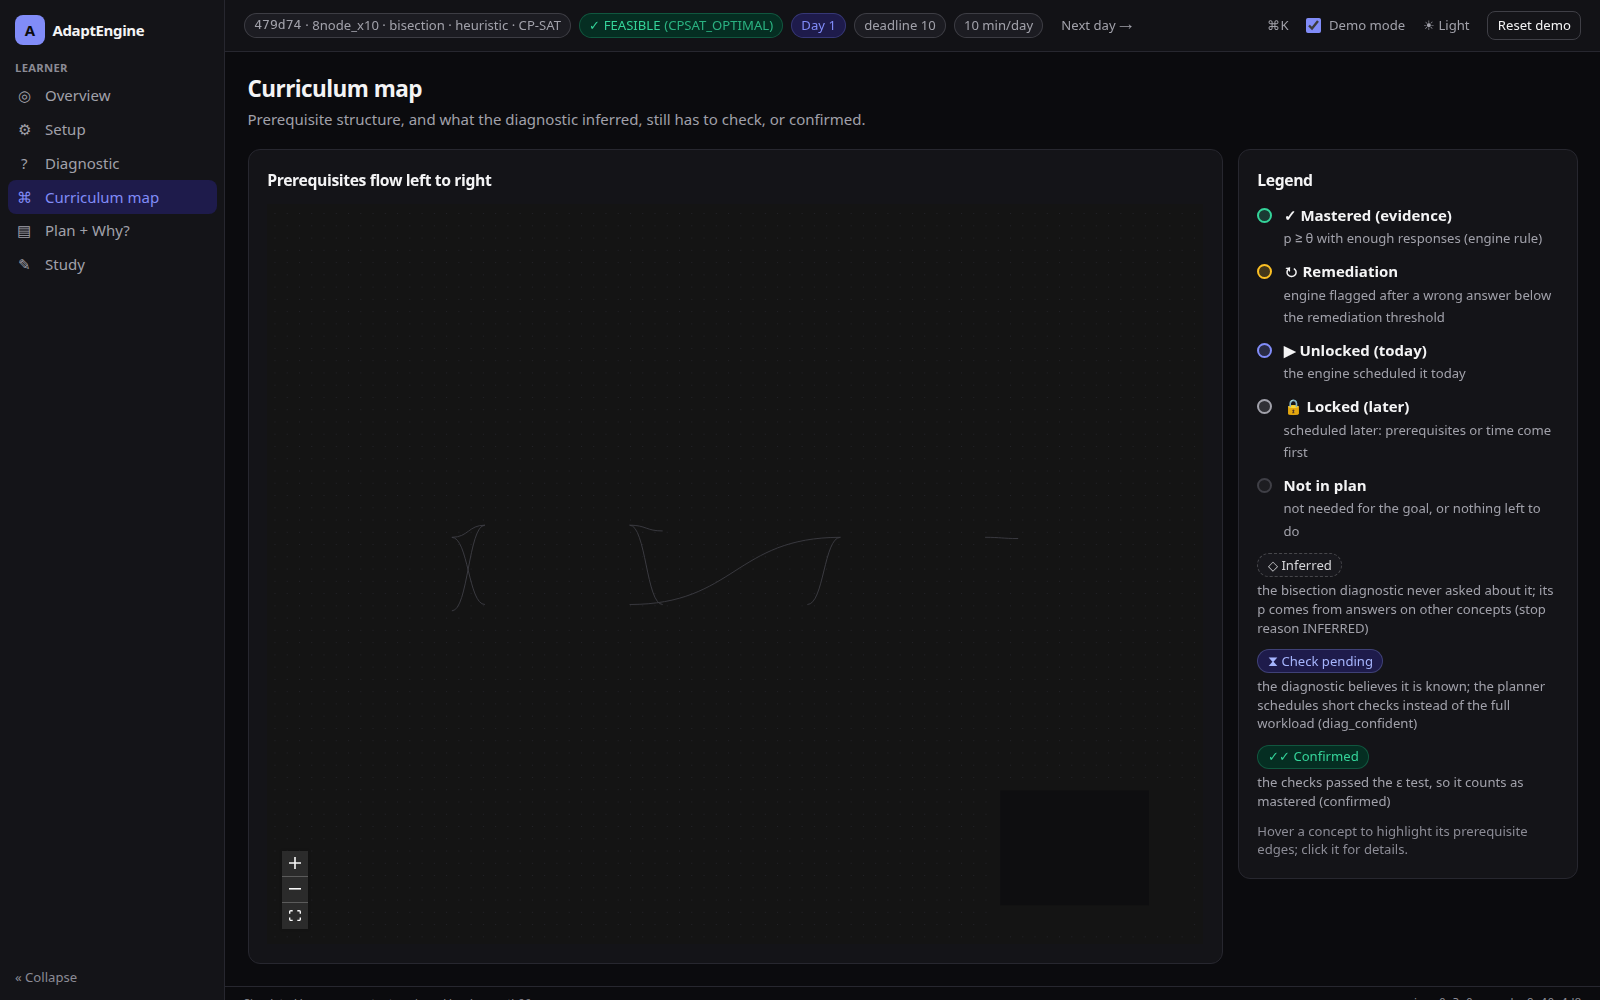
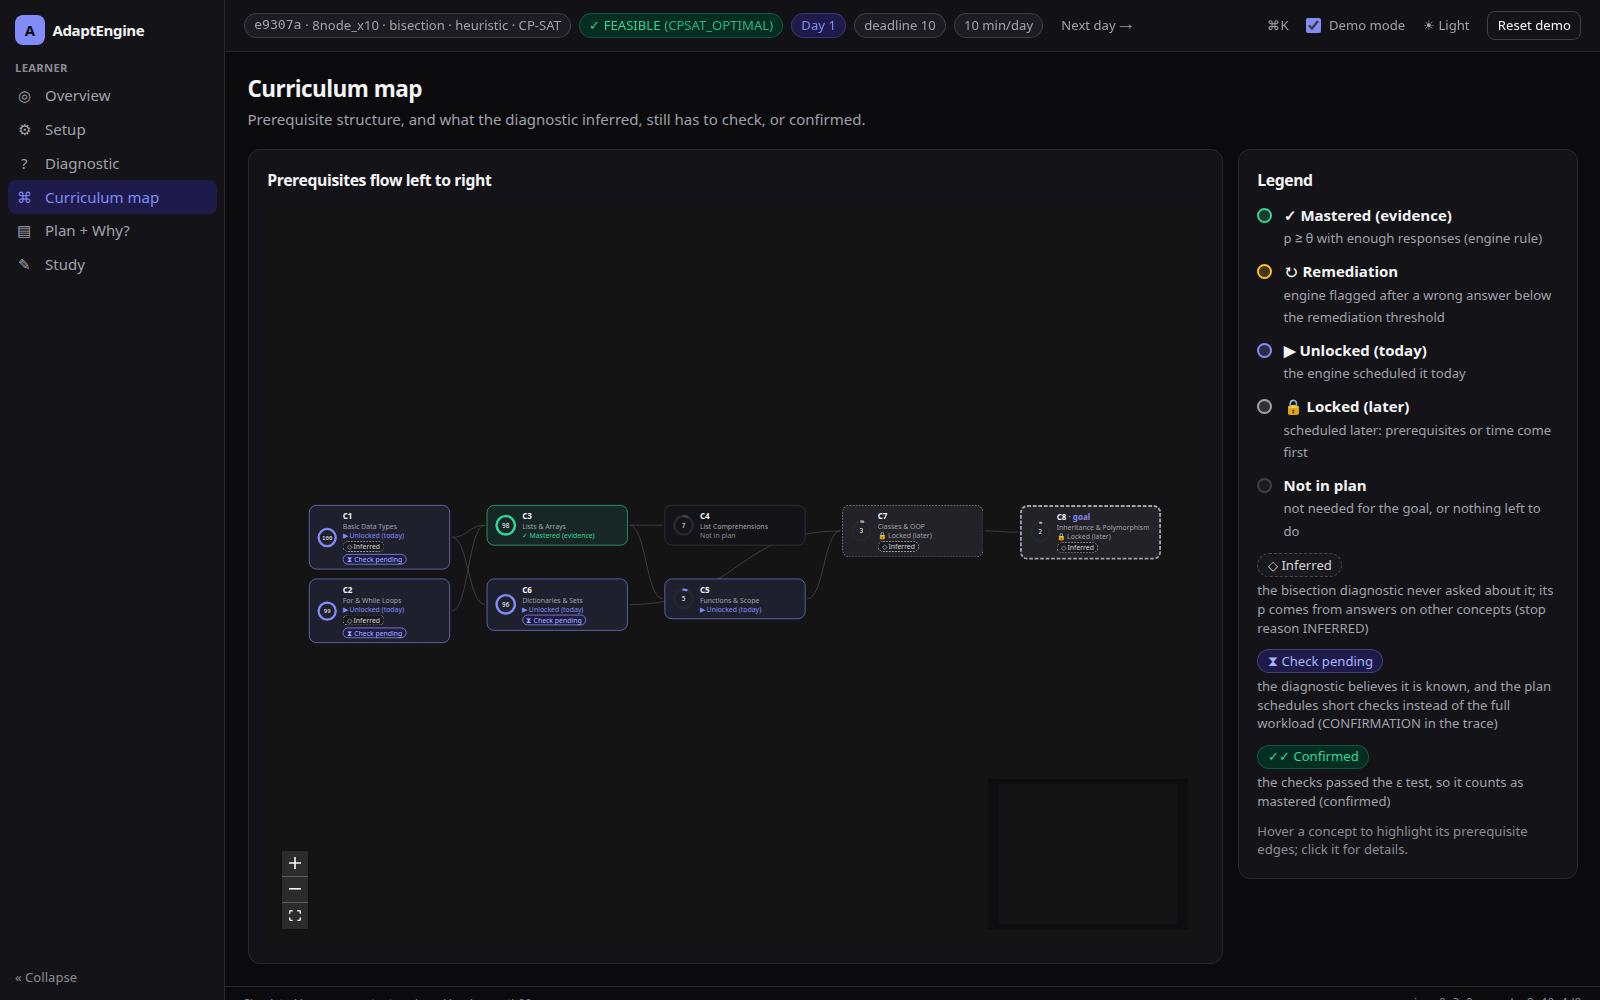
feat: show check pending badge only when plan schedules checks

diff --git a/frontend/web/e2e/screens.spec.ts b/frontend/web/e2e/screens.spec.ts
@@ -51,6 +51,11 @@ for (const theme of ["light", "dark"] as const) {
       await expect(page.getByTestId(`tab-${t}`)).toHaveAttribute("aria-current", "page");
       await expect(page.getByRole("heading", { level: 1 })).toBeVisible();
       await expect(page.getByText(/screen failed to render/)).toHaveCount(0);
+      if (t === "map") {
+        // React Flow measures and fits the nodes after mounting: wait until their text is painted
+        await expect(page.getByTestId("node-C8")).toContainText("C8");
+        await page.waitForTimeout(500);
+      }
       await page.waitForLoadState("networkidle");
       await page.screenshot({ path: shotPath(t, theme) });
     }
@@ -159,4 +164,27 @@ test("setup locks the curriculum and switches once the session has a plan", asyn
   await page.getByTestId("keep-session").click(); // back to the current session's switches, locked
   await expect(bisection).toBeDisabled();
   await expect(page.getByTestId("make-plan")).toHaveText("Re-plan");
+});
+
+test("check pending only where the plan schedules checks", async ({ page, request }) => {
+  // a beginner (every diagnostic answer wrong): the diagnostic flags C1 (diag_confident), but the
+  // planner gives it the full workload, so the map must not say "check pending"
+  const body = { curriculum: "8node_x10", goal: "C8", deadline_day: 21, budget: 15, diagnostic_method: "bisection" };
+  const s = await (await request.post("/api/sessions", { data: body })).json();
+  let view = s;
+  while (!view.diagnostic.done)
+    view = await (
+      await request.post(`/api/sessions/${s.session_id}/diagnostic/answer`, {
+        data: { activity_id: view.diagnostic.next_item.activity_id, correct: false },
+      })
+    ).json();
+  view = await (await request.post(`/api/sessions/${s.session_id}/plan`, { data: {} })).json();
+  const flagged = view.concepts.filter((c: { diag_confident: boolean }) => c.diag_confident).map((c: { concept_id: string }) => c.concept_id);
+  expect(flagged.length).toBeGreaterThan(0);
+  expect(view.plan.trace.filter((r: { decision: string }) => r.decision === "CONFIRMATION")).toHaveLength(0);
+  await page.addInitScript((id) => localStorage.setItem("ae.sid", id), s.session_id);
+  await page.goto("/");
+  await page.getByTestId("tab-map").click();
+  await expect(page.getByTestId(`node-${flagged[0]}`)).toBeVisible();
+  await expect(page.locator("[data-testid^=badge-check-]")).toHaveCount(0);
 });

diff --git a/frontend/web/src/pages/Study.tsx b/frontend/web/src/pages/Study.tsx
@@ -1,7 +1,7 @@
 import { useCallback, useState } from "react";
 import { contentOf } from "../api/client";
 import { calendarDay, lastDay, useDemoPreset, useDigitKeys, type Ctx } from "../ctx";
-import { Button, C, Card, ErrorBox, Markdown, PBar, StateBadge, checkRecords, conceptName, inline } from "../components/ui";
+import { Button, C, Card, ErrorBox, Markdown, PBar, StateBadge, checkRecords, checksPlanned, conceptName, inline } from "../components/ui";
 import NoSession from "./NoSession";
 
 export default function Study({ session, cur, demo, sendEvent, lastEvent, go, nextDay }: Ctx) {
@@ -132,7 +132,7 @@ export default function Study({ session, cur, demo, sendEvent, lastEvent, go, ne
               {conceptName(cur, up.concept_id)}: p {up.p_before.toFixed(2)} → {up.p_after.toFixed(2)}
               <PBar p={up.p_after} theta={cur?.theta} />
             </div>
-            {after && (after.diag_confident || after.confirmed) && (
+            {after && (after.confirmed || (after.diag_confident && checksPlanned(session.plan, after.concept_id))) && (
               <p className="flex items-center gap-2" data-testid="study-flags">
                 {after.confirmed ? <StateBadge state="confirmed" /> : <StateBadge state="check" />}
                 {after.confirmed ? "The checks confirmed the diagnostic's belief." : "More checks are planned."}

diff --git a/frontend/web/src/components/ui.tsx b/frontend/web/src/components/ui.tsx
@@ -353,13 +353,19 @@ export function checkRecords(plan?: Plan | null): Map<string, TraceRecord> {
   return out;
 }
 
-// F1 badges, read from engine fields only (D45): stop_reason INFERRED, diag_confident, confirmed.
+/** True when the engine's plan schedules confirmation checks for the concept (a CONFIRMATION record). */
+export const checksPlanned = (plan: Plan | null | undefined, conceptId: string) =>
+  !!plan?.trace.some((r) => r.decision === "CONFIRMATION" && r.concept_id === conceptId);
+
+// F1 badges, read from engine output only (D45): stop_reason INFERRED; "check pending" = the plan
+// schedules checks for it (diag_confident alone only means checks could confirm it; the planner
+// may still choose the full workload when checks are not cheaper); confirmed.
 export function f1Badges(s: Session, conceptId: string): (keyof typeof STATE)[] {
   const c = s.concepts.find((x) => x.concept_id === conceptId);
   const r = s.diagnostic.concept_results.find((x) => x.concept_id === conceptId);
   const out: (keyof typeof STATE)[] = [];
   if (r?.stop_reason === "INFERRED") out.push("inferred");
-  if (c?.diag_confident && !c.confirmed) out.push("check");
+  if (c?.diag_confident && !c.confirmed && checksPlanned(s.plan, conceptId)) out.push("check");
   if (c?.confirmed) out.push("confirmed");
   return out;
 }

diff --git a/frontend/web/src/pages/CurriculumMap.tsx b/frontend/web/src/pages/CurriculumMap.tsx
@@ -15,7 +15,7 @@ const LEGEND: [string, string, string][] = [
 // F1 badges (bisection sessions): what each one means, from the engine's fields
 const BADGE_WHY: Record<"inferred" | "check" | "confirmed", string> = {
   inferred: "the bisection diagnostic never asked about it; its p comes from answers on other concepts (stop reason INFERRED)",
-  check: "the diagnostic believes it is known; the planner schedules short checks instead of the full workload (diag_confident)",
+  check: "the diagnostic believes it is known, and the plan schedules short checks instead of the full workload (CONFIRMATION in the trace)",
   confirmed: "the checks passed the ε test, so it counts as mastered (confirmed)",
 };
 

diff --git a/docs/FRONTEND_NOTES.md b/docs/FRONTEND_NOTES.md
@@ -253,3 +253,23 @@ Plan + Why? and Study. Replans come from Study (closed loop), "Next day →" and
 from about 247 kB.
 
 **Tests:** Playwright 10 passed.
+
+## "Check pending" badge follows the plan (2026-11-21)
+
+**Before.** The badge showed whenever `diag_confident && !confirmed`. That flag only means up to
+3 right answers *could* confirm the concept. The planner still gives such a concept the full
+workload when the checks are not cheaper on average (`T_checks < P_pass · T_full`, D57). So a
+beginner, who answered every diagnostic question wrong, saw "check pending" on C1, C2, C3 and C6
+with no check in the plan. On the demo preset, C4, C5, C7 and C8 had the badge too, while only C1,
+C2 and C6 had checks.
+
+**Now:**
+- `f1Badges` shows "check pending" only when the concept is `diag_confident`, not confirmed,
+  **and** the plan's trace has a `CONFIRMATION` record for it (`checksPlanned` in `ui.tsx`).
+- Study's "More checks are planned." line uses the same rule.
+- The map legend text says so.
+
+Display only; the engine fields are unchanged (D45).
+
+**Test:** `e2e/screens.spec.ts` ("check pending only where the plan schedules checks"):
+flagged concepts, no `CONFIRMATION` record, no badge. Playwright: 11 passed.
